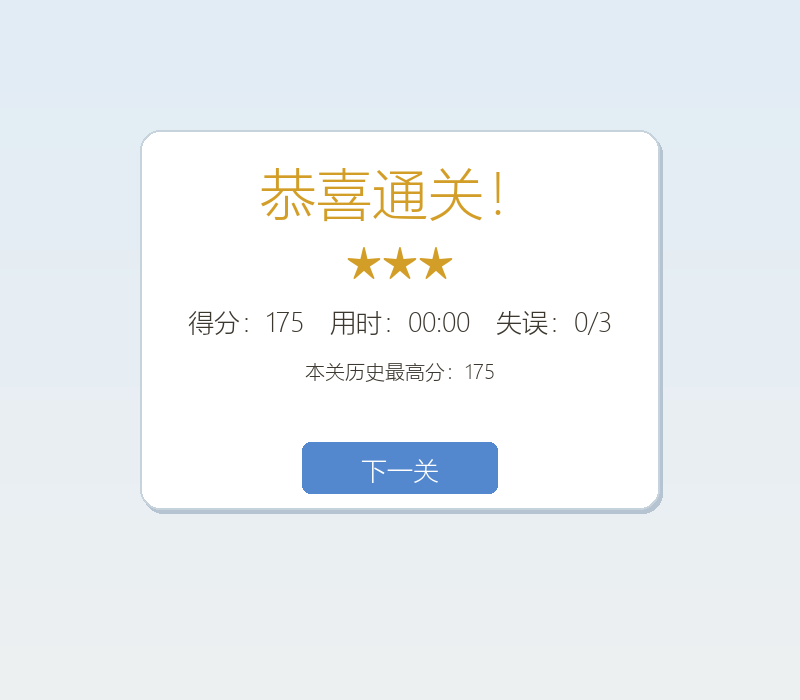
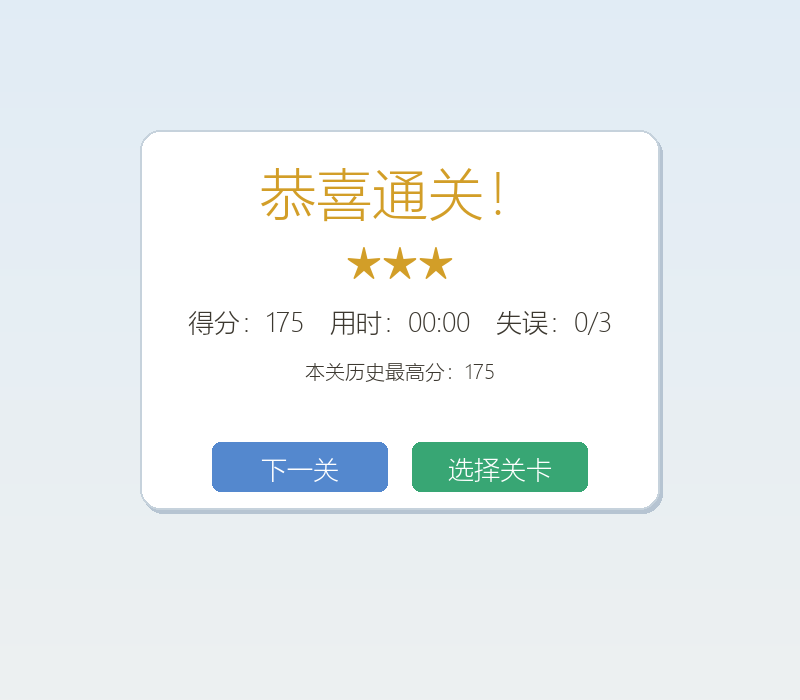
docs: 更新全部截图，新增选关界面截图

Changed region(s): [[0.4688, 0.63, 0.75, 0.72], [0.25, 0.63, 0.4375, 0.72]]

diff --git a/render_check.py b/render_check.py
@@ -69,5 +69,11 @@ game.on_click(game.btn_random.rect.center)
 game.draw()
 pygame.image.save(game.screen, os.path.join(OUT, "08_random.png"))
 
+# 09 选关界面（新功能）
+game.state = "start"
+game.on_click(game.btn_levels.rect.center)
+game.draw()
+pygame.image.save(game.screen, os.path.join(OUT, "09_level_select.png"))
+
 pygame.quit()
 print("截图完成:", sorted(os.listdir(OUT)))

diff --git a/README.md b/README.md
@@ -99,6 +99,10 @@ python -m unittest discover -s tests -v
 
 ![随机挑战](screenshots/08_random.png)
 
+选择关卡（按进度解锁）：
+
+![选择关卡](screenshots/09_level_select.png)
+
 ## 项目结构
 
 ```
